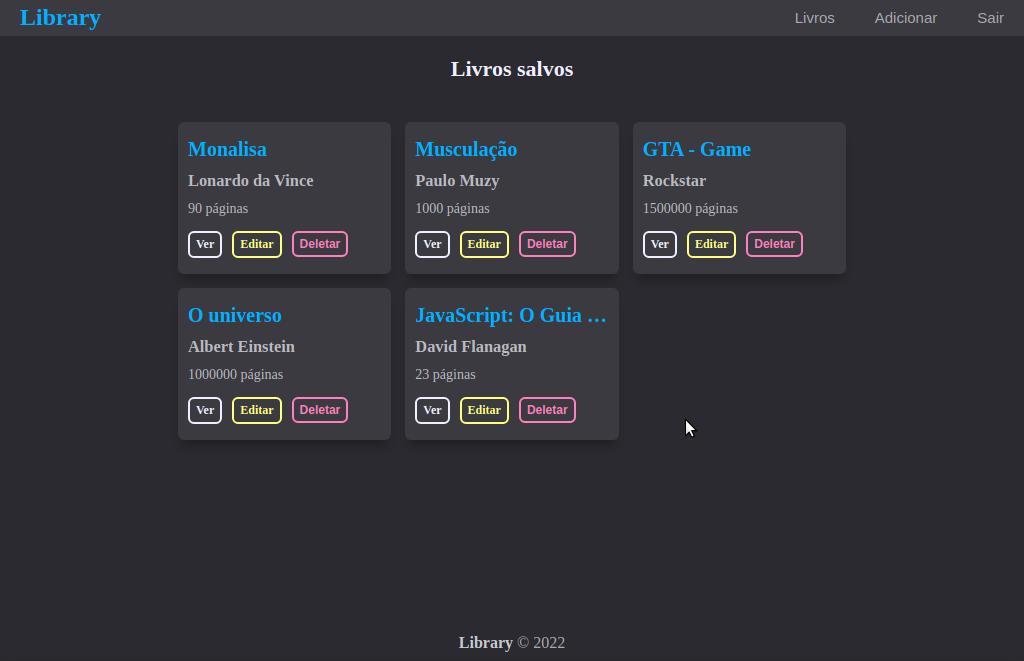
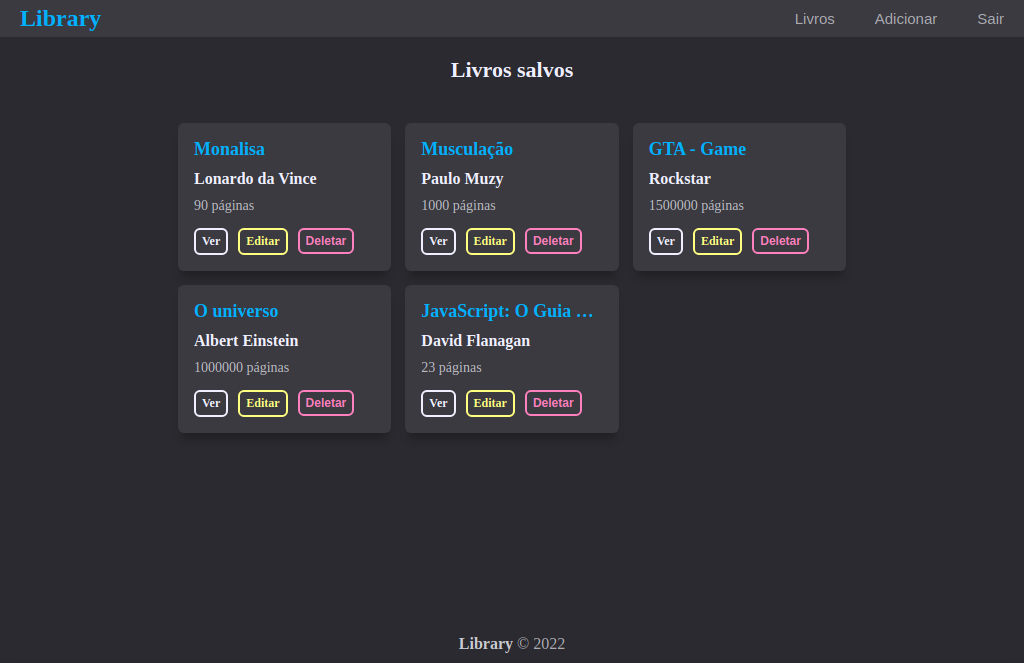
separate the return functions from the routes in a new controller file BookController

diff --git a/routes/bookRoutes.js b/routes/bookRoutes.js
@@ -3,71 +3,21 @@ require("dotenv").config()
 const express = require("express")
 const router = express.Router()
 
-// Connection with Mysql
-const connection = require("../db")
+const BookControllers = require("../controllers/BookControllers")
 
-router.route("/")
-    .get((req, res) => {
-        const query = `SELECT * FROM books`
-        connection.query(query, (err, results) => {
-            if (err) throw err
-            res.render("books", { books: results })
-        })
-    })
-    .post((req, res) => {
-        const { title, author, page_count } = req.body
+router.get("/", BookControllers.showBooks)
 
-        const query = `INSERT INTO books (title, author, page_count) VALUES (?, ?, ?)`
-        const data = [title, author, page_count]
-
-        connection.query(query, data, (err) => {
-            if (err) throw err
-            res.redirect("/books")
-        })
-    })
+router.route("/add")
+    .get(BookControllers.showCreateBook)
+    .post(BookControllers.createBook)
 
 
 router.route("/:bookId")
-    .get((req, res) => {
-        const { bookId } = req.params
-
-        const query = `SELECT * FROM books WHERE id = ?`
-
-        connection.query(query, [bookId], (err, results) => {
-            if (err) throw err
-            res.render("show-book", { book: results[0] })
-        })
-    })
-    .post((req, res) => {
-        const { bookId } = req.params
-
-        const query = `DELETE FROM books WHERE id = ?`
-
-        connection.query(query, [bookId], (err) => {
-            if (err) throw err
-            res.redirect("/books")
-        })
-    })
+    .get(BookControllers.showBook)
+    .post(BookControllers.deleteBook)
 
 router.route("/:bookId/edit")
-    .get((req, res) => {
-        const { bookId } = req.params
-
-        const query = `SELECT * FROM books WHERE id = ?`
-        connection.query(query, [bookId], (err, results) => {
-            if (err) throw err
-            res.render("book-edit", { book: results[0], btnText: "Atualizar" })
-        })
-    })
-    .post((req, res) => {
-        const { id: bookId, title, author, page_count } = req.body
-        const query = `UPDATE books SET title = ?, author = ?, page_count = ? WHERE id = ?`
-        const data = [title, author, page_count, bookId]
-
-        connection.query(query, data, (err) => {
-            if (err) throw err
-            res.redirect("/books")
-        })
-    })
+    .get(BookControllers.showEditBook)
+    .post(BookControllers.updateBook)
 
 module.exports = router

diff --git a/controllers/BookControllers.js b/controllers/BookControllers.js
@@ -1,0 +1,70 @@
+// Connection with Mysql
+const connection = require("../db")
+
+module.exports = class BookControllers {
+  static async showBooks(req, res) {
+    const query = `SELECT * FROM books`
+    connection.query(query, (err, results) => {
+      if (err) throw err
+      res.render("book/books", { books: results })
+    })
+  }
+  static showCreateBook(req, res) {
+    res.render("book/create-book", { book: {}, btnText: "Adicionar" })
+  }
+
+  static async createBook(req, res) {
+    const { title, author, page_count } = req.body
+
+    const query = `INSERT INTO books (title, author, page_count) VALUES (?, ?, ?)`
+    const data = [title, author, page_count]
+
+    connection.query(query, data, (err) => {
+      if (err) throw err
+      res.redirect("/books")
+    })
+  }
+
+  static async showBook(req, res) {
+    const { bookId } = req.params
+
+    const query = `SELECT * FROM books WHERE id = ?`
+
+    connection.query(query, [bookId], (err, results) => {
+      if (err) throw err
+      res.render("book/show-book", { book: results[0] })
+    })
+  }
+
+  static async deleteBook(req, res) {
+    const { bookId } = req.params
+
+    const query = `DELETE FROM books WHERE id = ?`
+
+    connection.query(query, [bookId], (err) => {
+      if (err) throw err
+      res.redirect("/books")
+    })
+  }
+
+  static async showEditBook(req, res) {
+    const { bookId } = req.params
+
+    const query = `SELECT * FROM books WHERE id = ?`
+    connection.query(query, [bookId], (err, results) => {
+      if (err) throw err
+      res.render("book/book-edit", { book: results[0], btnText: "Atualizar" })
+    })
+  }
+
+  static async updateBook(req, res) {
+    const { id: bookId, title, author, page_count } = req.body
+    const query = `UPDATE books SET title = ?, author = ?, page_count = ? WHERE id = ?`
+    const data = [title, author, page_count, bookId]
+
+    connection.query(query, data, (err) => {
+      if (err) throw err
+      res.redirect("/books")
+    })
+  }
+}

diff --git a/public/css/styles.css b/public/css/styles.css
@@ -177,7 +177,7 @@ main {
     gap: .5rem;
     font-size: .7rem;
     color: #babac0;
-    padding: .8rem .5rem;
+    padding: .8rem;
     border-radius: .3rem;
     box-shadow: rgba(0,0,0, 0.25) 0px 10px 10px -4px;
     background: var(--secondary-color);
@@ -189,8 +189,13 @@ main {
 }
 
 .c-books h2 {
-    font-size: 1rem;
+    font-size: .9rem;
     color: var(--details-color);
+}
+
+.c-books h3 {
+    font-size: .8rem;
+    color: #efefff;
 }
 
 .c-books .actions {
@@ -223,9 +228,6 @@ main {
  /* Show book */
 
  .c-book {
-    /* display: flex;
-    flex-direction: column;
-    gap: 1rem; */
     padding: 1rem .8rem;
     width: 400px;
     border-radius: .5rem;

diff --git a/index.js b/index.js
@@ -15,7 +15,11 @@ const bookRoutes = require("./routes/bookRoutes")
 app.use("/books", bookRoutes)
 
 app.get("/", (req, res) => {
-    res.render("home", { book: {}, btnText: "Adicionar" })
+    res.redirect("/books")
+})
+
+app.use("*", (req, res) => {
+    res.status(404).send("<h1>Page not found</h1>")
 })
 
 app.listen(PORT, () => console.log(`Server running on port ${PORT}`))
